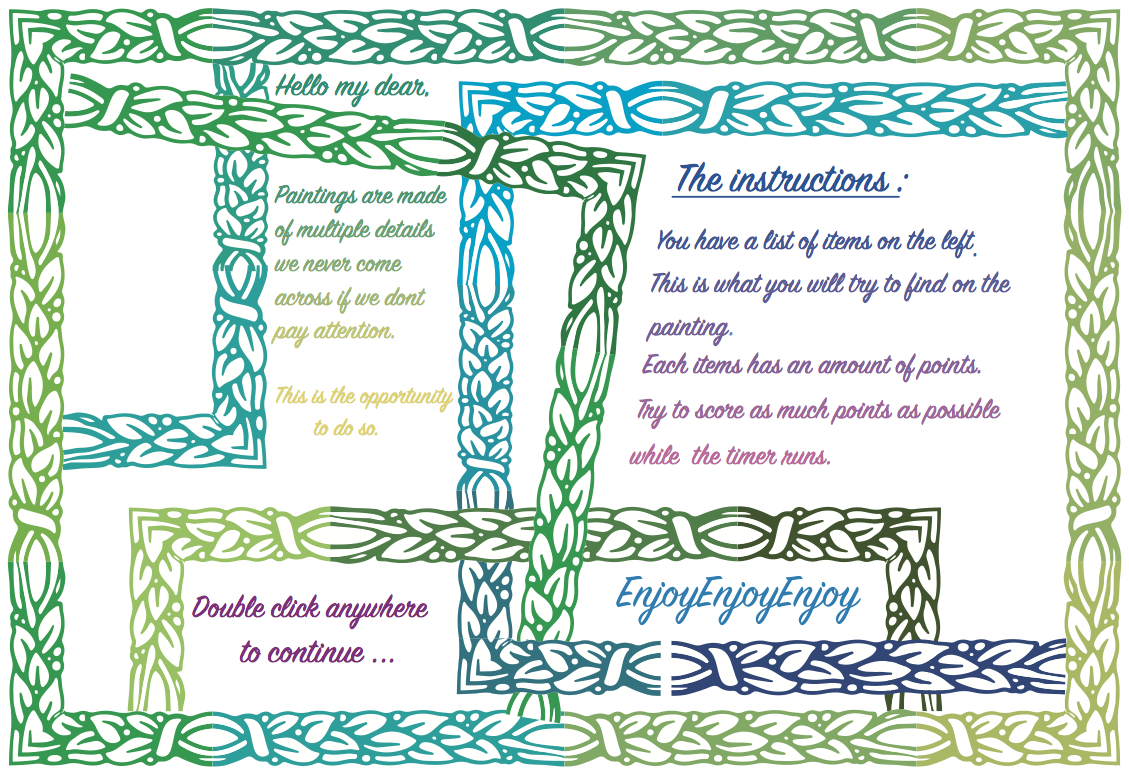
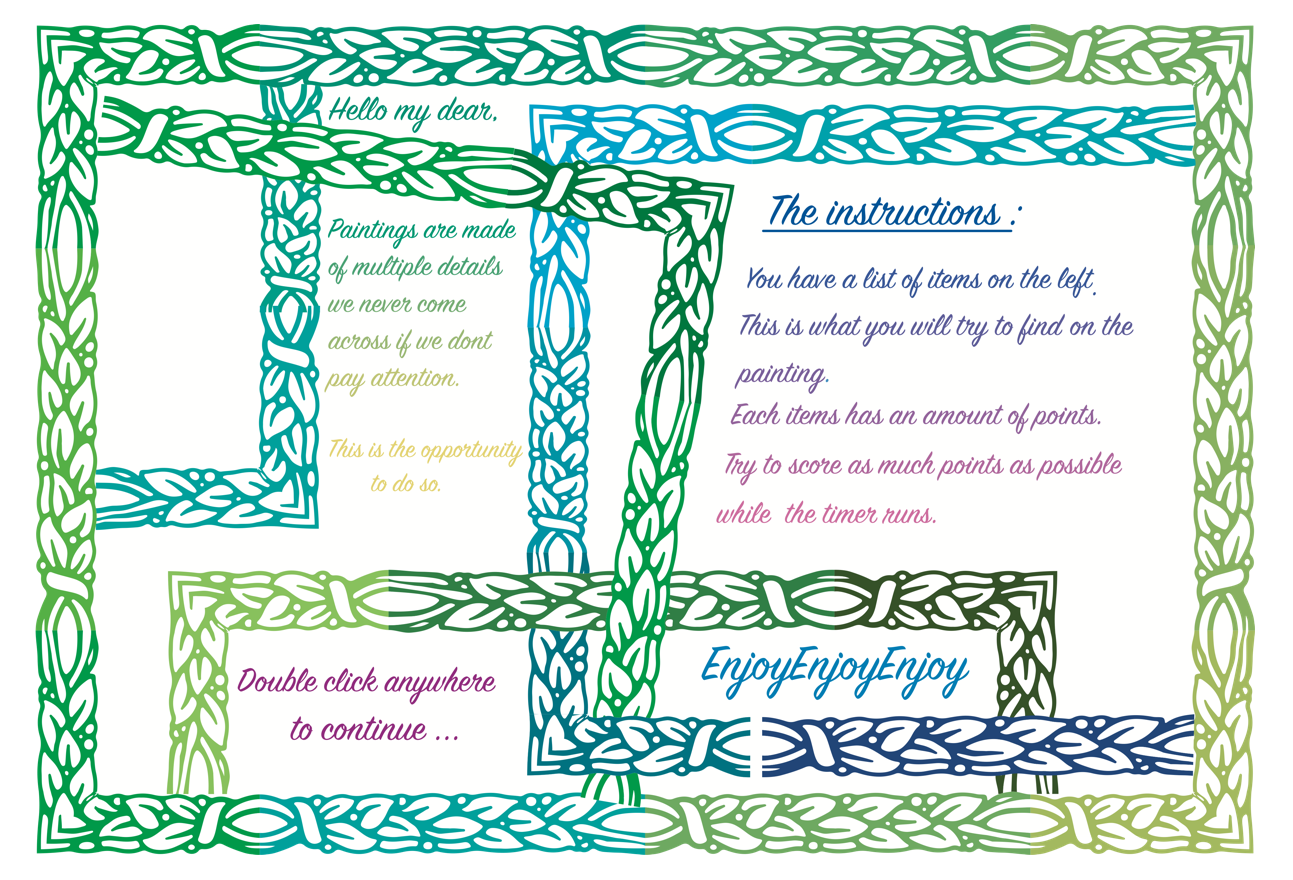
added a outro (not done)

diff --git a/main.js b/main.js
@@ -3,28 +3,21 @@ $(document).ready(function(){
 
 // if my code look messy about the Javascript and jQuery Mix is because i didn't wanted to start doing fancy jQuery stuff without having a reenforced knowledge about JavaScript. Once i felt better with it i started jQuery. 
 
-  var picture = document.getElementById('picture');
-  var boxes = document.getElementsByClassName('boxes');
-  var itemsPictures = document.getElementById('itemsPictures');
-  var player1Score = document.getElementsByClassName('playerScore')[0]; // choosed Class because later on it will be 2 players;
-  var timer = document.getElementById('timer');
+var picture = document.getElementById('picture');
+var boxes = document.getElementsByClassName('boxes');
+var itemsPictures = document.getElementById('itemsPictures');
+var player1Score = document.getElementsByClassName('playerScore')[0]; 
+var timer = document.getElementById('timer');
 
 var level = 1;
 var player1Score = 0;
 
-
-
-
 var clickedBoxes = []; //store the imaged click to pass on to the next level when all clicked.
 
-// TODO // This can be simplified by : selecting a parent node and iterate through. Think of updating also the rest (innerHTML..) when updating this
 var descriptionBox1 = document.getElementById('description1');
 var descriptionBox2 = document.getElementById('description2');
 var descriptionBox3 = document.getElementById('description3');
 var descriptionBox4 = document.getElementById('description4');
-
-//Add descriptions about the artist : 
-
 
 //Add level name through array :
 var addd1=0;
@@ -38,7 +31,6 @@ var levelNameArr = [
 ["Stuart Davis - The Mellow Pad - Brooklyn Museum (New York) "],//level 7 Name
 ];
 $('#levelName').text(levelNameArr[addd1]); //set level 1 
-
 
 // add descriptions through array
 var add1 = 0; // this is the number that select the array according to the level.
@@ -57,51 +49,59 @@ descriptionBox2.innerHTML=descriptionArr[add1][1];
 descriptionBox3.innerHTML=descriptionArr[add1][2];
 descriptionBox4.innerHTML=descriptionArr[add1][3];
 
-//assing a click event on every box and make it possible t:
-// for(var i = 0; i < boxes.length; i++) { 
-
+//Intro with instructions :
 $( "#intro" ).dblclick(function() {
-    $('#intro').fadeOut("slow", listenForClick());
+    $('#intro').fadeOut("slow", listenForClick()); //listen for click is called here once weve dblcclik
   });
+
+//Outro to be shown when level 7 is done;
+$('#outro').hide();
+function Outro(){ // made a fct to be able to call level by calling the function in listenForClick where level is increasing
+  console.log($('#outro'));
+  if(level === 2) { 
+    console.log(level)  
+    $('#outro').show();
+    $('#outro').prepend('Well done you scored :'+ player1Score);
+  }
+}
 
 function listenForClick(){
 // TO REACTIVATE  // runTheTimer()
 
-    $('.boxes').one('click', function() {
-      player1Score += this.value;
+  $('.boxes').one('click', function() {
+    player1Score += this.value;
     $('#player1Score').text(player1Score); // assign scores to scoreboard
 
-// TO REACTIVATE //Sounds when click on the good div  
-// var audio = new Audio("win.wav");
-// audio.play();   
-      if(clickedBoxes.indexOf(this.id) === -1) {  
-        clickedBoxes.push(this.id);
-        console.log(clickedBoxes);
-      }
+    if(clickedBoxes.indexOf(this.id) === -1) {  
+      clickedBoxes.push(this.id);
+      console.log(clickedBoxes);
+    }
 
-      if(clickedBoxes.length === boxes.length) {
-        level++; 
-        changeTheLevel();   
-//TODO// add a winning sound : like Bravo ! 
-        }
-    });
+    if(clickedBoxes.length === boxes.length) {
+      var audio = new Audio("sound/win.wav"); /// NEED TO CHANGE THIS SOUND INTO A COOLER ONE 
+      audio.play();
+      level++; 
+      console.log(level)
+      Outro()
+      changeTheLevel();   
+      }
+  });
 }  
 
 function changeTheLevel(){
-
   alert("Bravo! Level "+level+" Now");
   uncrossDoneItems ();
-        picture.className="level"+ level ; ////change class to level+1: it updates the image which is going to the next level
-        itemsPictures.className="level"+ level ;// update the images in item list
-        clickedBoxes = []; //boss move // set the array clickedBox back to 0. To be able to store the new clicked box.
-        add1++; 
-        descriptionBox1.innerHTML=descriptionArr[add1][0]; //win 
-        descriptionBox2.innerHTML=descriptionArr[add1][1];
-        descriptionBox3.innerHTML=descriptionArr[add1][2];
-        descriptionBox4.innerHTML=descriptionArr[add1][3];
-        addd1++;
-        $('#levelName').text(levelNameArr[addd1]);
-        listenForClick();
+  picture.className="level"+ level ; ////change class to level+1: it updates the image which is going to the next level
+  itemsPictures.className="level"+ level ;// update the images in item list
+  clickedBoxes = []; //boss move // set the array clickedBox back to 0. To be able to store the new clicked box.
+  add1++; 
+  descriptionBox1.innerHTML=descriptionArr[add1][0]; //win 
+  descriptionBox2.innerHTML=descriptionArr[add1][1];
+  descriptionBox3.innerHTML=descriptionArr[add1][2];
+  descriptionBox4.innerHTML=descriptionArr[add1][3];
+  addd1++;
+  $('#levelName').text(levelNameArr[addd1]);
+  listenForClick();
 
 }
 
@@ -124,26 +124,7 @@ function runTheTimer(){
     }   
   }, 1000);
 }
-
-////////////////////////////////////////////////////////////////////////////
-//Audio mute 
-
-// console.log($('#backgroundAudio'));
-// $( "#musicOn" ).click(function() {
-//   console.log(this);
-//     // $('#mute').attr('src', 'img/MusicOff.png');
-//     if ($(this).attr("id") == "musicOn") {
-//          this.src = this.src.replace("img/MusicOn.png","img/MusicOff.png");
-//          this.id = "musicOff";
-//          console.log(this.id)
-//          musicSwitch();
-//        } else {
-//          this.src = this.src.replace("img/MusicOff.png","img/MusicOn.png");
-//          musicSwitch();
-//          this.id = "musicOn";
-//        }
-//        $(this).toggleClass("on");
-// });
+// Audio Mute
 var audio = document.getElementById('backgroundAudio');
   document.getElementById('mute').addEventListener('click', function (e) { 
     e = e || window.event;
@@ -151,28 +132,24 @@ var audio = document.getElementById('backgroundAudio');
     e.preventDefault();
   }, false);
 
-  function crossDoneItems (){
-      $( "#click1" ).click(function() {
-        $( "#description1" ).css("text-decoration", "line-through");
-      });
-      $( "#click2" ).click(function() {
-        $( "#description2" ).css("text-decoration", "line-through");
-      });
-      $( "#click3" ).click(function() {
-        $( "#description3" ).css("text-decoration", "line-through");
-      });
-      $( "#click4" ).click(function() {
-        $( "#description4" ).css("text-decoration", "line-through");
-      });
-    }
+function crossDoneItems (){
+    $( "#click1" ).click(function() {
+      $( "#description1" ).css("text-decoration", "line-through");
+    });
+    $( "#click2" ).click(function() {
+      $( "#description2" ).css("text-decoration", "line-through");
+    });
+    $( "#click3" ).click(function() {
+      $( "#description3" ).css("text-decoration", "line-through");
+    });
+    $( "#click4" ).click(function() {
+      $( "#description4" ).css("text-decoration", "line-through");
+    });
+  }
 
-  function uncrossDoneItems (){
-    console.log ('we want to uncross')
-        $( ".description" ).css("text-decoration", "none");
-    }
+function uncrossDoneItems (){
+      $( ".description" ).css("text-decoration", "none");
+  }
 
-  // listenForClick(); // calling the function so it runs 
-  crossDoneItems ();
-
-
+crossDoneItems ();
 });

diff --git a/style.css b/style.css
@@ -1,16 +1,28 @@
 body {
   background-image: url("img/background.png"); 
+  background-repeat: no-repeat;
+}
+
+#outro {
+position: absolute;
+border: 2px solid black;
+top: 0px;
+height: 902px;
+width: 1290px;
+left: 0px;
+background-color: white;
+z-index: 3;
 }
 
 #intro {
 position: absolute;
-
-height: 850px;
-width: 1400px;
-
+top: -10px;
+height: 902px;
+width: 1290px;
+left: -10px;
 background-color: white;
 z-index: 2;
-background-image: url("img/introDivBackground.png"); 
+background-image: url("img/MainDivBackground.png"); 
 background-repeat: no-repeat;
 }
 
@@ -30,10 +42,10 @@ background-repeat: no-repeat;
 
   #header  {
     position: absolute;
-    border: 1px solid black;
-
+    background-image: url("img/frameHolder.png"); 
+    background-repeat: no-repeat;
     top: -20px;
-    left: 350px;
+    left: 359px;
     height: 135px;
     width: 800px;
 
@@ -95,6 +107,7 @@ background-repeat: no-repeat;
     top: 66px;
     left: 11px;
     background-image: url("img/itemListHeader.png"); 
+    background-repeat: no-repeat;
     height: 72px;
     width: 325px;
     z-index: 1;
@@ -113,10 +126,10 @@ background-repeat: no-repeat;
 /* Picture */
 #pictureFrame {
   background-image: url("img/frame.png"); 
+  background-repeat: no-repeat;
   position: relative;
   width: 800px;
   height: 580px;
-  border: 1px solid black;
 top: 100px;
 left: 350px;
 }
@@ -124,11 +137,11 @@ left: 350px;
   #picture {
     position: absolute;
     top: 33px;
-    left: 33px;
+    left: 36px;
     height: 510px; 
     width: 730px;
     background-repeat: no-repeat;
-    border: 1px solid black;
+
     list-style-type: none;
   }
 }

diff --git a/index.html b/index.html
@@ -9,13 +9,13 @@
 <body>
 
   <div id="website-layout">
-  <div id="intro">This is the intro</div>
-    <div id="header">Header</div>  
+  <div id="intro"></div>
+    <div id="header"></div>  
 
-    <audio id="backgroundAudio" autoplay="autoplay">
+ <!--    <audio id="backgroundAudio" autoplay="autoplay" >
       <source src="http://www.amclassical.com/mp3/amclassical_march_from_the_magic_flute.mp3" />
     </audio> 
-    
+     -->
     <a href="#noscroll" id="mute" >Click to mute the music my dear</a>
     
     <div id="levelName"></div>
@@ -60,7 +60,8 @@
     
 
   </div>  
-    
+  
+  <div id="outro"></div>
  
 
 </body>
